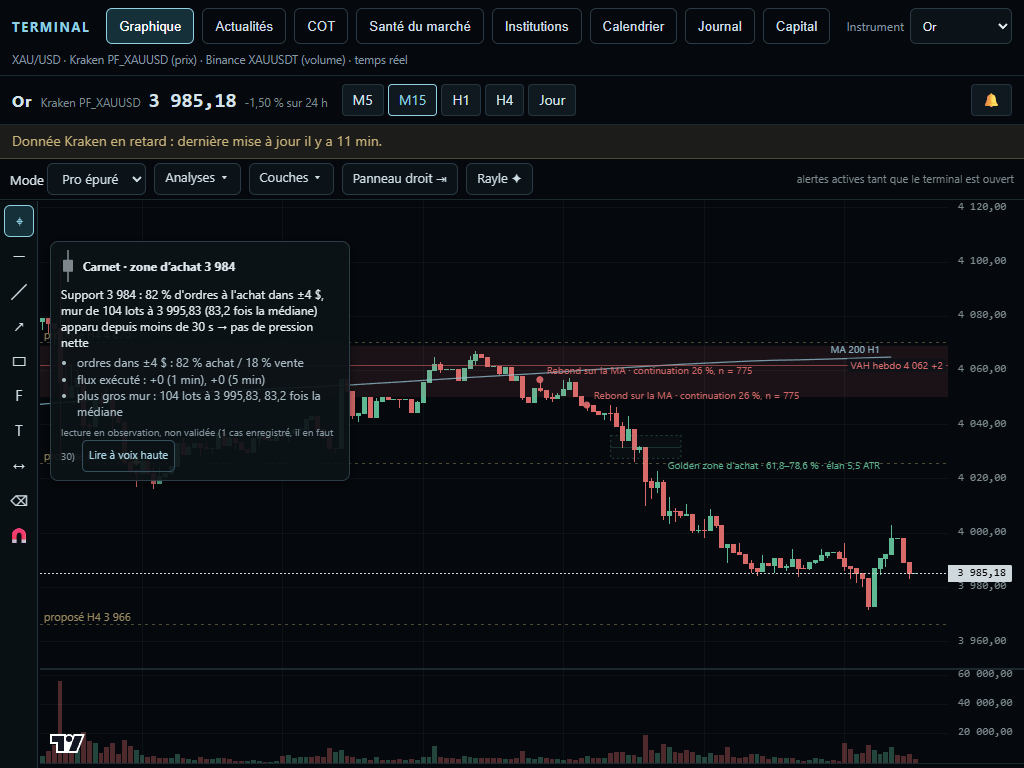
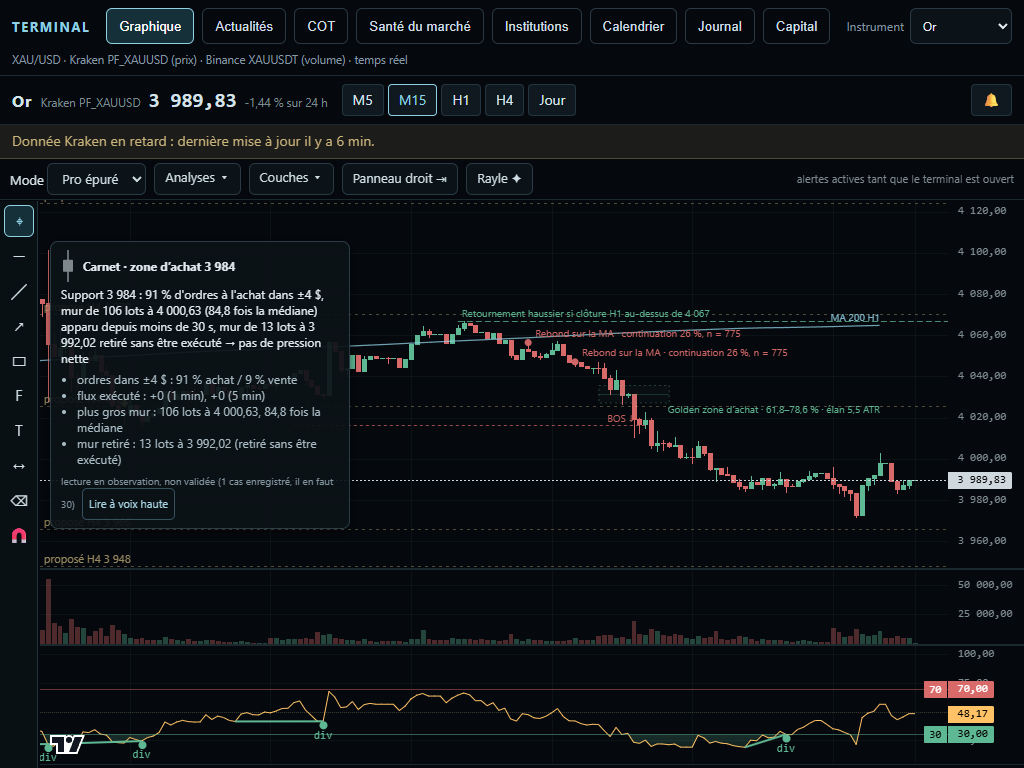
Terminal etape 2 : RSI 14 (Wilder) unique sous le prix, divergences confirmees, case Couches memorisee, tests Node et Chrome 1600/1024/390

diff --git a/agent-trading/front/or/graphique-or.js b/agent-trading/front/or/graphique-or.js
@@ -19,8 +19,8 @@ import { COUCHES_RAYLE, COUCHES_RAYLE_DEFAUT } from './rayle-couches.js';
 import { zonesAffichage, liquiditeAffichage, dedoublonnerLiquidite, atrH1, detailZone } from './zones-affichage-v1.js';
 import { dessinerZone, dessinerLiquidite } from './zones-affichage-dessin.js';
 
-export const COUCHES = Object.freeze({ sr: 'Supports et résistances', liquidite: 'Zones de liquidité', fleches: 'Flèches de lecture (MA200 et gros niveaux)', flechesTout: 'Toutes les flèches (debug : anciennes versions, niveaux mineurs, zones tracées)', volume: 'Zones de volume', mouvements: 'Mouvements H1', ...LIBELLES, structure: 'Structure de marché H1 / H4 (cassures, impulsions, retournements)', retournements: 'Retournements : toutes les zones (probabilité mesurée)', rsi: 'RSI H1 + divergences (panneau sous le graphique)', divCachees: 'Divergences cachées', schemas: 'Schémas de retournement (double sommet, tête et épaules, balayage, bougies)', ...COUCHES_ICT, ...COUCHES_RAYLE });
-const COUCHES_DEFAUT = Object.freeze({ sr: true, liquidite: true, fleches: true, flechesTout: false, volume: false, mouvements: true, structure: false, retournements: false, rsi: false, divCachees: false, schemas: false, ...Object.fromEntries(Object.keys(COUCHES_ICT).map(k => [k, false])), ...COUCHES_RAYLE_DEFAUT, ...Object.fromEntries(Object.keys(LIBELLES).map(k => [k, false])) });
+export const COUCHES = Object.freeze({ sr: 'Supports et résistances', liquidite: 'Zones de liquidité', fleches: 'Flèches de lecture (MA200 et gros niveaux)', flechesTout: 'Toutes les flèches (debug : anciennes versions, niveaux mineurs, zones tracées)', volume: 'Zones de volume', mouvements: 'Mouvements H1', ...LIBELLES, structure: 'Structure de marché H1 / H4 (cassures, impulsions, retournements)', retournements: 'Retournements : toutes les zones (probabilité mesurée)', rsi: 'RSI 14 (sous-fenêtre) + divergences', divCachees: 'Divergences cachées', schemas: 'Schémas de retournement (double sommet, tête et épaules, balayage, bougies)', ...COUCHES_ICT, ...COUCHES_RAYLE });
+const COUCHES_DEFAUT = Object.freeze({ sr: true, liquidite: true, fleches: true, flechesTout: false, volume: false, mouvements: true, structure: false, retournements: false, rsi: true, divCachees: false, schemas: false, ...Object.fromEntries(Object.keys(COUCHES_ICT).map(k => [k, false])), ...COUCHES_RAYLE_DEFAUT, ...Object.fromEntries(Object.keys(LIBELLES).map(k => [k, false])) });
 const lire = (k, d) => { try { const v = localStorage.getItem(k); return v ? JSON.parse(v) : d; } catch (e) { return d; } };
 const ecrire = (k, v) => { try { localStorage.setItem(k, JSON.stringify(v)); } catch (e) { /* stockage refusé */ } };
 const nb = (p, d = 2) => Number(p).toLocaleString('fr-FR', { minimumFractionDigits: d, maximumFractionDigits: d }).replace(/ | /g, ' ');
@@ -41,9 +41,9 @@ export function ratio(pos) {
 }
 
 export function creerGraphiqueOr(el, { surClicPrix, mobile = false } = {}) {
-  const etat = { bougies: [], volumes: [], cle: null, debutKraken: null, ecart: null, chargementAncien: false, zonesVol: [], h1: [], aff: null, cadresZ: [], niveaux: [], retournement: [], bandes: [], liquidite: [], balayages: [], fleches: [], segments: [], segCadres: [], a: null, cadres: [], marques: [], tSerie: new Map(), barres: new Map(), couches: { ...COUCHES_DEFAUT, ...lire('rayle_or_couches_v2', {}) }, pos: lire('rayle_or_position', null), outil: null, prix: null,
+  const etat = { bougies: [], volumes: [], cle: null, debutKraken: null, ecart: null, chargementAncien: false, zonesVol: [], h1: [], aff: null, cadresZ: [], niveaux: [], retournement: [], bandes: [], liquidite: [], balayages: [], fleches: [], segments: [], segCadres: [], a: null, cadres: [], marques: [], tSerie: new Map(), barres: new Map(), couches: (() => { const c = { ...COUCHES_DEFAUT, ...lire('rayle_or_couches_v2', {}) }; if (!lire('rayle_or_rsi_defaut_v1', false)) { c.rsi = true; c.fleches = true; ecrire('rayle_or_rsi_defaut_v1', true); } return c; })(),   // une seule fois : RSI et flèches de lecture allumés par défaut, puis le choix est mémorisé pos: lire('rayle_or_position', null), outil: null, prix: null,
     flechesT: [], outils: { objets: [], proposes: [], croix: [], fleches10: [], selection: null }, modeOutil: null, brouillon: [], aimant: true, outilsCadres: [] };
-  let LW = null, chart = null, serie = null, vol = null, pret = null, maSerie = null, rsiSerie = null, rsiDiv = [];
+  let LW = null, chart = null, serie = null, vol = null, pret = null, maSerie = null, rsiSerie = null, rsiHaut = null, rsiBas = null, rsiDiv = [];
   /* couche « Mouvements H1 » (mouvements-v1.js, définition figée) : rétrospectif, jamais un signal ; H1 seulement ; données calculées dans un Worker (mouvements-ui.js) */
   const mouv = { liste: [], h1: false, cadres: [] };
   const mouvementSous = (x, y) => {   // clic seulement (pas au survol) et jamais pendant un outil de dessin
@@ -428,20 +428,38 @@ export function creerGraphiqueOr(el, { surClicPrix, mobile = false } = {}) {
     ictEtat: () => ({ cadres: (inst.cadresIct || []).length, types: (inst.cadresIct || []).reduce((o, c) => (o[c.kind] = (o[c.kind] || 0) + 1, o), {}) }),
     schemasEtat: () => ({ cadres: (inst.cadresSch || []).length, types: (inst.cadresSch || []).reduce((o, c) => (o[c.kind] = (o[c.kind] || 0) + 1, o), {}) }),
     /* panneau RSI sous le graphique (3e panneau) : points [{ t, v }] ou null pour le retirer ; divs : segments de divergence sur le RSI */
+    /* RSI 14 (Wilder) : UNE seule sous-fenêtre sous le prix (volet 2), jamais deux. Ligne dorée, 70 / 30 discrets, 50 en pointillé très léger, remplissage léger au-dessus de 70 et sous 30.
+       divs : [{ t1, t2, r1, r2, dir, label, confirmeT }] → petit trait entre les deux pivots + étiquette « div » (posée seulement une fois le second pivot confirmé : jamais de repaint). */
     async rsi(points, divs = []) {
       await pret; if (!chart || !LW) return;
-      const retirer = () => { for (const q of rsiDiv) { try { chart.removeSeries(q); } catch (e) { /* */ } } rsiDiv = []; if (rsiSerie) { try { chart.removeSeries(rsiSerie); } catch (e) { /* */ } rsiSerie = null; } };
+      const retirer = () => { for (const q of rsiDiv) { try { chart.removeSeries(q); } catch (e) { /* */ } } rsiDiv = []; for (const q of [rsiSerie, rsiHaut, rsiBas]) if (q) { try { chart.removeSeries(q); } catch (e) { /* */ } } rsiSerie = rsiHaut = rsiBas = null; };
       if (!points || !points.length) { retirer(); return false; }
       if (!rsiSerie) {
-        rsiSerie = chart.addSeries(LW.LineSeries, { color: '#c9b27a', lineWidth: 1, priceLineVisible: false, lastValueVisible: true, crosshairMarkerVisible: false, priceFormat: { type: 'custom', formatter: v => Number(v).toFixed(0), minMove: 1 }, autoscaleInfoProvider: () => ({ priceRange: { minValue: 10, maxValue: 90 } }) }, 2);
-        rsiSerie.createPriceLine({ price: 70, color: 'rgba(216,106,106,.55)', lineWidth: 1, lineStyle: 2, axisLabelVisible: true, title: '70' }); rsiSerie.createPriceLine({ price: 30, color: 'rgba(95,184,148,.55)', lineWidth: 1, lineStyle: 2, axisLabelVisible: true, title: '30' });
+        const commun = { priceLineVisible: false, lastValueVisible: false, crosshairMarkerVisible: false, autoscaleInfoProvider: () => ({ priceRange: { minValue: 5, maxValue: 95 } }) };
+        const transp = 'rgba(0,0,0,0)';
+        rsiHaut = chart.addSeries(LW.BaselineSeries, { ...commun, baseValue: { type: 'price', price: 70 }, topFillColor1: 'rgba(216,106,106,.22)', topFillColor2: 'rgba(216,106,106,.05)', bottomFillColor1: transp, bottomFillColor2: transp, topLineColor: transp, bottomLineColor: transp, lineWidth: 1 }, 2);
+        rsiBas = chart.addSeries(LW.BaselineSeries, { ...commun, baseValue: { type: 'price', price: 30 }, bottomFillColor1: 'rgba(95,184,148,.22)', bottomFillColor2: 'rgba(95,184,148,.05)', topFillColor1: transp, topFillColor2: transp, topLineColor: transp, bottomLineColor: transp, lineWidth: 1 }, 2);
+        rsiSerie = chart.addSeries(LW.LineSeries, { ...commun, color: '#ffc266', lineWidth: 1, lastValueVisible: true, priceFormat: { type: 'custom', formatter: v => Number(v).toFixed(0), minMove: 1 } }, 2);
+        rsiSerie.createPriceLine({ price: 70, color: 'rgba(216,106,106,.45)', lineWidth: 1, lineStyle: 0, axisLabelVisible: true, title: '70' });
+        rsiSerie.createPriceLine({ price: 30, color: 'rgba(95,184,148,.45)', lineWidth: 1, lineStyle: 0, axisLabelVisible: true, title: '30' });
+        rsiSerie.createPriceLine({ price: 50, color: 'rgba(255,224,138,.16)', lineWidth: 1, lineStyle: 1, axisLabelVisible: false, title: '' });
         try { const P = chart.panes(); P[0].setStretchFactor(mobile ? 4 : 5); P[1].setStretchFactor(1); if (P[2]) P[2].setStretchFactor(mobile ? 1.4 : 1.6); } catch (e) { /* */ }
       }
-      const m = new Map(); for (const q of points) { const tt = tDe(q.t); if (tt != null && Number.isFinite(q.v)) m.set(tt, q.v); } rsiSerie.setData([...m.entries()].sort((a, b) => a[0] - b[0]).map(([time, value]) => ({ time, value })));
+      const m = new Map(); for (const q of points) { const tt = tDe(q.t); if (tt != null && Number.isFinite(q.v)) m.set(tt, q.v); }
+      const data = [...m.entries()].sort((a, b) => a[0] - b[0]).map(([time, value]) => ({ time, value }));
+      rsiSerie.setData(data); rsiHaut.setData(data); rsiBas.setData(data);
       for (const q of rsiDiv) { try { chart.removeSeries(q); } catch (e) { /* */ } } rsiDiv = [];
-      for (const d of divs.slice(-8)) { const t1 = tDe(d.t1), t2 = tDe(d.t2); if (t1 == null || t2 == null || t1 >= t2) continue; const q = chart.addSeries(LW.LineSeries, { color: d.dir > 0 ? '#5fb894' : '#d86a6a', lineWidth: 1, lineStyle: d.cachee ? 2 : 0, priceLineVisible: false, lastValueVisible: false, crosshairMarkerVisible: false, autoscaleInfoProvider: () => null }, 2); q.setData([{ time: t1, value: d.r1 }, { time: t2, value: d.r2 }]); rsiDiv.push(q); }
+      for (const d of divs.slice(-8)) {
+        const t1 = tDe(d.t1), t2 = tDe(d.t2); if (t1 == null || t2 == null || t1 >= t2) continue;
+        const couleur = d.dir > 0 ? '#5fb894' : '#d86a6a';
+        const q = chart.addSeries(LW.LineSeries, { color: couleur, lineWidth: 2, lineStyle: d.cachee ? 2 : 0, priceLineVisible: false, lastValueVisible: false, crosshairMarkerVisible: false, autoscaleInfoProvider: () => null }, 2);
+        q.setData([{ time: t1, value: d.r1 }, { time: t2, value: d.r2 }]);
+        if (LW.createSeriesMarkers) { try { LW.createSeriesMarkers(q, [{ time: t2, position: d.dir > 0 ? 'belowBar' : 'aboveBar', color: couleur, shape: 'circle', size: 0.2, text: d.label || 'div' }]); } catch (e) { /* marques indisponibles */ } }
+        rsiDiv.push(q);
+      }
       return true;
     },
+    rsiEtat: () => { let panneaux = 0, lignes = 0; try { panneaux = chart ? chart.panes().length : 0; } catch (e) { /* */ } lignes = rsiSerie ? 1 : 0; return { actif: !!rsiSerie, lignes, panneaux, divergences: rsiDiv.length, remplissages: (rsiHaut ? 1 : 0) + (rsiBas ? 1 : 0) }; },
     structureEtat: () => ({ cadres: (inst.cadresS || []).length, types: (inst.cadresS || []).reduce((o, c) => (o[c.kind] = (o[c.kind] || 0) + 1, o), {}) }),
     mouvements(liste, { h1 = false } = {}) { mouv.liste = liste || []; mouv.h1 = !!h1; redessiner(); return mouv.liste.length; },
     mouvementsEtat: () => ({ h1: mouv.h1, actif: mouv.h1 && etat.couches.mouvements !== false, total: mouv.liste.length, dessines: mouv.cadres.length, cadres: mouv.cadres.map(c => ({ x0: c.x0, x1: c.x1, y0: c.y0, y1: c.y1, sens: c.m.sens, bougies: c.m.bougies, enCours: !!c.m.enCours, t0: c.m.t0 })) }),

diff --git a/agent-trading/front/or/rsi-lecture-v1.js b/agent-trading/front/or/rsi-lecture-v1.js
@@ -1,0 +1,57 @@
+/* ═════════════ RSI 14 (Wilder) ET DIVERGENCES — règle « rsi-lecture-v1 » (2026-11-12) ═════════════
+   Pur, sans DOM, sans réseau. Un SEUL RSI : période 14, lissage de Wilder, calculé sur les clôtures de la timeframe affichée.
+   Divergences : seulement entre DEUX PIVOTS CONSÉCUTIFS DE MÊME NATURE du prix, chacun confirmé par 5 bougies de chaque côté (le pivot est connu 5 bougies après),
+   distants d'au plus 60 bougies :
+     • haussière : deuxième creux du prix PLUS BAS que le premier, RSI du deuxième creux PLUS HAUT ;
+     • baissière : deuxième sommet du prix PLUS HAUT que le premier, RSI du deuxième sommet PLUS BAS.
+   La divergence n'apparaît qu'à la CONFIRMATION du second pivot (5 bougies après lui) : elle arrive donc avec du retard et n'est JAMAIS redessinée.
+   Repère de lecture, ni un signal d'entrée ni un ordre. */
+export const VERSION = 'rsi-lecture-v1', ECRITES_LE = '2026-11-12';
+export const P = Object.freeze({ periode: 14, pivot: 5, distanceMax: 60, haut: 70, bas: 30, milieu: 50 });
+
+/* RSI de Wilder : moyenne simple des 14 premières variations, puis lissage (a·13 + x) / 14. null avant la 15e clôture. */
+export function rsiWilder(closes, n = P.periode) {
+  const out = new Array(closes.length).fill(null); if (closes.length <= n) return out;
+  let gain = 0, perte = 0;
+  for (let i = 1; i <= n; i++) { const d = closes[i] - closes[i - 1]; if (d >= 0) gain += d; else perte -= d; }
+  gain /= n; perte /= n; out[n] = perte === 0 ? (gain === 0 ? 50 : 100) : 100 - 100 / (1 + gain / perte);
+  for (let i = n + 1; i < closes.length; i++) {
+    const d = closes[i] - closes[i - 1]; gain = (gain * (n - 1) + (d > 0 ? d : 0)) / n; perte = (perte * (n - 1) + (d < 0 ? -d : 0)) / n;
+    out[i] = perte === 0 ? (gain === 0 ? 50 : 100) : 100 - 100 / (1 + gain / perte);
+  }
+  return out;
+}
+
+/* Pivots du prix (mèches) confirmés : le pivot i est le plus haut (ou plus bas) STRICT de i-k..i+k ; connu à la clôture de la bougie i+k. */
+export function pivots(B, k = P.pivot) {
+  const sommets = [], creux = [];
+  for (let i = k; i < B.length - k; i++) {
+    let h = true, b = true;
+    for (let j = i - k; j <= i + k; j++) { if (j === i) continue; if (B[j].h >= B[i].h) h = false; if (B[j].l <= B[i].l) b = false; if (!h && !b) break; }
+    if (h) sommets.push({ i, p: B[i].h, t: B[i].t, connuI: i + k }); if (b) creux.push({ i, p: B[i].l, t: B[i].t, connuI: i + k });
+  }
+  return { sommets, creux };
+}
+
+/* Divergences entre pivots consécutifs de même nature. B : bougies { t, h, l, c } ; R : RSI aligné sur B. */
+export function divergences(B, R, { k = P.pivot, max = P.distanceMax } = {}) {
+  const { sommets, creux } = pivots(B, k), out = [];
+  const examiner = (L, dir) => {
+    for (let a = 1; a < L.length; a++) {
+      const p1 = L[a - 1], p2 = L[a]; if (p2.i - p1.i > max || p1.i === p2.i) continue;
+      const r1 = R[p1.i], r2 = R[p2.i]; if (r1 == null || r2 == null) continue;
+      const bull = dir > 0 ? (p2.p < p1.p && r2 > r1) : (p2.p > p1.p && r2 < r1);
+      if (bull) out.push({ dir, i1: p1.i, i2: p2.i, t1: p1.t, t2: p2.t, p1: p1.p, p2: p2.p, r1, r2, confirmeI: p2.connuI, confirmeT: B[p2.connuI].t + (B[1] ? B[1].t - B[0].t : 0), label: 'div', nom: dir > 0 ? 'Divergence haussière' : 'Divergence baissière' });
+    }
+  };
+  examiner(creux, 1); examiner(sommets, -1);
+  return out.sort((x, y) => x.confirmeI - y.confirmeI);
+}
+
+export const texteDivergence = d => `${d.nom} : le prix ${d.dir > 0 ? 'fait un creux plus bas' : 'fait un sommet plus haut'} (${d.p1.toFixed(2).replace('.', ',')} → ${d.p2.toFixed(2).replace('.', ',')}) pendant que le RSI ${d.dir > 0 ? 'monte' : 'baisse'} (${Math.round(d.r1)} → ${Math.round(d.r2)}). Confirmée ${P.pivot} bougies après le second pivot : elle apparaît avec ce retard et n'est jamais redessinée. Repère de lecture, pas un ordre.`;
+
+/* Tout en un : bougies affichées (la dernière peut être en cours : elle sert au RSI mais jamais à un pivot confirmé, faute de 5 bougies après). */
+export function analyser(B) {
+  const R = rsiWilder(B.map(b => b.c));
+  return { rsi: R, divergences: divergences(B, R), dernier: R.length ? R[R.length - 1] : null };
+}

diff --git a/agent-trading/front/or/rsi-ui.js b/agent-trading/front/or/rsi-ui.js
@@ -1,0 +1,45 @@
+/* ═════════════ RSI 14 SOUS LE PRIX : interface (case dans Couches, mise à jour à chaque changement, infobulle des divergences) ═════════════
+   Calcul : rsi-lecture-v1.js. Dessin : graph.rsi() (une seule sous-fenêtre). Un SEUL RSI à l'écran : il suit la timeframe affichée du graphique.
+   Case « RSI » dans Couches, activée par défaut, état mémorisé (couche « rsi » du graphique). Information de lecture, jamais un ordre. */
+import * as R from './rsi-lecture-v1.js';
+
+const esc = s => String(s ?? '').replace(/[&<>"']/g, c => ({ '&': '&amp;', '<': '&lt;', '>': '&gt;', '"': '&quot;', "'": '&#39;' }[c]));
+
+export function monterRsi(T, { intervalleMs = 700 } = {}) {
+  const graph = T.graph, E = { cle: '', analyse: null, bougies: 0, dessine: false, divs: [] };
+  const zone = T.R && T.R.querySelector('[data-graph]');
+  const bulle = document.createElement('div'); bulle.className = 'tor-ft-bulle'; bulle.hidden = true; bulle.setAttribute('role', 'tooltip');
+  if (zone) { zone.style.position = zone.style.position || 'relative'; zone.appendChild(bulle); }
+  const periode = () => { try { return (T.moteur && T.moteur.S && T.moteur.S.periode) || (T.etat && T.etat().periode) || ''; } catch (e) { return ''; } };
+
+  function maj(force = false) {
+    const actif = graph.couches().rsi !== false, B = (graph.etat().bougies || []).filter(b => b && Number.isFinite(b.c));
+    const dernier = B.length ? B[B.length - 1] : null, cle = [actif, periode(), B.length, dernier && dernier.t, dernier && dernier.c].join('|');
+    if (!force && cle === E.cle) return false; E.cle = cle;
+    if (!actif || B.length < R.P.periode + 2) { if (E.dessine) { graph.rsi(null); E.dessine = false; } E.analyse = null; E.divs = []; return true; }
+    const a = R.analyser(B); E.analyse = a; E.bougies = B.length;
+    const pts = []; a.rsi.forEach((v, i) => { if (v != null) pts.push({ t: B[i].t, v }); });
+    E.divs = a.divergences.filter(d => d.i2 >= B.length - 400);
+    graph.rsi(pts.slice(-1500), E.divs); E.dessine = true; return true;
+  }
+
+  let abonne = false;
+  function abonner() {
+    if (abonne) return; const ch = graph.chart && graph.chart(); if (!ch) return; abonne = true;
+    ch.subscribeCrosshairMove(p => {
+      if (!p || !p.point || p.time == null || !E.divs.length || (p.paneIndex != null && p.paneIndex !== 2)) { bulle.hidden = true; return; }
+      const d = E.divs.find(x => { const t1 = graph.tempsDeBougie ? graph.tempsDeBougie(x.t1) : null, t2 = graph.tempsDeBougie ? graph.tempsDeBougie(x.t2) : null; return t1 != null && t2 != null && p.time >= t1 && p.time <= t2; });
+      if (!d) { bulle.hidden = true; return; }
+      bulle.innerHTML = `<div class="tor-ft-f"><b>${esc(d.nom)}</b><span>${esc(R.texteDivergence(d))}</span></div>`; bulle.hidden = false;
+      const w = bulle.offsetWidth || 260; bulle.style.left = Math.max(4, Math.min(p.point.x + 12, (zone ? zone.clientWidth : 600) - w - 4)) + 'px'; bulle.style.top = Math.max(4, p.point.y - 70) + 'px';
+    });
+  }
+  const pompe = setInterval(() => { try { abonner(); maj(); } catch (e) { console.warn('RSI :', e.message); } }, intervalleMs);
+  const api = {
+    maj, analyse: () => E.analyse,
+    etat: () => ({ actif: graph.couches().rsi !== false, dessine: E.dessine, periode: periode(), bougies: E.bougies, dernier: E.analyse ? E.analyse.dernier : null, divergences: E.divs.length, graphe: graph.rsiEtat ? graph.rsiEtat() : null }),
+    detruire() { clearInterval(pompe); }
+  };
+  setTimeout(() => { try { maj(true); } catch (e) { /* */ } }, 300);
+  return api;
+}

diff --git a/agent-trading/front/or/terminal-pro.js b/agent-trading/front/or/terminal-pro.js
@@ -51,7 +51,7 @@ export function creerTerminalPro({ racine, graph, strategie, parler = () => {}, 
   lw.addEventListener('pointerup', ev => { if (!bas || !['fib', 'texte', 'mesure', 'gomme'].includes(E.outil)) { bas = null; return; } const d = Math.hypot(ev.clientX - bas.x, ev.clientY - bas.y); bas = null; if (d > 5) return; const r = lw.getBoundingClientRect(); surClic({ point: { x: ev.clientX - r.left, y: ev.clientY - r.top } }); }, true);
   /* ── modes ── */
   function appliquerMode(k, { memoriser = true } = {}) {
-    const M = MODES[k]; if (!M) return; E.mode = k; const tout = Object.keys(graph.couches()), cibles = new Set([...M.couches, 'fleches']), etat = {}; for (const c of tout) etat[c] = cibles.has(c); graph.couches(etat);
+    const M = MODES[k]; if (!M) return; E.mode = k; const tout = Object.keys(graph.couches()), cibles = new Set(M.couches), courant = graph.couches(), etat = {}; for (const c of tout) etat[c] = (c === 'fleches' || c === 'rsi') ? courant[c] !== false : cibles.has(c);   // flèches de lecture et RSI : ne dépendent pas du mode, le choix de l'utilisateur est gardé graph.couches(etat);
     for (const c of racine.querySelectorAll('[data-couche]')) c.checked = !!etat[c.dataset.couche];
     for (const cle of ['vwap', 'structure', 'rsi', 'ictLiquidite', 'rayMa']) { const c = racine.querySelector(`[data-couche="${cle}"]`); if (c) c.dispatchEvent(new Event('change', { bubbles: true })); }
     droite(M.panneau); haut.querySelector('[data-tp-mode]').value = k; if (memoriser) ecrire(CLE_MODE, k); try { strategie.maj(true); } catch (e) { /* */ }

diff --git a/agent-trading/front/or/tableau-or.js b/agent-trading/front/or/tableau-or.js
@@ -299,6 +299,7 @@ export function monterTableauOr(el, { modules = {}, contexte = 'page', fetchFn, 
   mouvUI = creerMouvementsUI({ racine: R, graph, moteur }); api.mouvements = mouvUI; api.graphe = () => graph;
   api.monterModule = (nom, m) => { modules[nom] = m; }; api.rendre = () => rendre();
   // mes outils (dessin, surveillance, alertes, registre) : dans tous les contextes ; un échec n'empêche pas le reste
+  import('./rsi-ui.js').then(m => { api.rsiUI = m.monterRsi(api); }).catch(e => notifier('RSI indisponible : ' + e.message, { niveau: 'doux', dit: false, raison: 'module' }));
   import('./fleches-terminal-ui.js').then(m => { api.flechesT = m.monterFlechesTerminal(api, {}); }).catch(e => notifier('Flèches du Terminal indisponibles : ' + e.message, { niveau: 'doux', dit: false, raison: 'module' }));
   import('./terminal-outils.js').then(m => { if (!R.isConnected && el.innerHTML === '') return; modules.outils = m.monterOutils(api, { ...(fetchFn ? { fetchFn } : {}), ...(window.__RAYLE_OR_OUTILS_TEST__ || {}) /* crochet de test : horloge et bougies H1 rejouées */ }); api.outils = modules.outils; }).catch(e => notifier('Outils de dessin indisponibles : ' + e.message, { niveau: 'doux', dit: false, raison: 'module' }));
   moteur.demarrer().then(() => { notifier('Données de l’or chargées.', { niveau: 'doux', dit: false, raison: 'information interne' }); }).catch(e => notifier('Chargement impossible : ' + e.message, { niveau: 'fort' }));

diff --git a/agent-trading/front/or/schemas-or.js b/agent-trading/front/or/schemas-or.js
@@ -96,8 +96,7 @@ export function creerSchemas({ racine, moteur, graph, structure, parler = () => 
   /* ── panneau RSI sous le graphique ── */
   async function majRsi() {
     const c = couches(); if (!E.R) return;
-    if (c.rsi) { const B = E.B, pts = []; E.R.rsi.forEach((v, i) => { if (v != null) pts.push({ t: B[i].t, v }); }); const divs = E.R.divergences.filter(d => d.i >= B.length - 400 && (d.sous === 'reguliere' || c.divCachees) && (!E.reg.seulementZone || d.enZone)).map(d => ({ t1: d.t1, t2: d.t2, r1: d.r1, r2: d.r2, dir: d.dir, cachee: d.sous === 'cachee' })); await graph.rsi(pts.slice(-1200), divs); }
-    else await graph.rsi(null);
+    /* RSI : désormais un seul, sur la timeframe affichée, géré par rsi-ui.js (rsi-lecture-v1) */
   }
   function maj(force = false) {
     const change = analyser() || force; if (!E.R) { rendre(); return; }

diff --git a/PROGRESS.md b/PROGRESS.md
@@ -9,6 +9,10 @@ Règle : les flèches marquent des ÉVÉNEMENTS de lecture, pas des trades renta
 - Rapport avant/après : `agent-trading/recherche-or/RAPPORT-FLECHES-FILTRAGE.md` (régénérable : `node agent-trading/recherche-or/fleches-filtrage.mjs`). Avant, sur 2026 : 623 flèches du terminal v1 (+ 284 niveaux de période, 36 à 360 par version H1 affichée). Après : 84 affichées (7 cassures confirmées, 7 retests, 22 rebonds MA200, 0 précoce, 48 rebonds confirmés sur gros niveau), 59 masquées ; 0 grappe ; maximum 12 sur 600 bougies.
 - Tests : `fleches-lecture-test.mjs` (21 : sceau, grappes, plafond, aucun repaint, scénarios fabriqués) dans `npm test` ; Chrome `fleches-lecture-chrome.mjs` (PC 1600, tablette 1024, téléphone 390 : aucune grappe, ≤ 12 par 600 bougies, aucune flèche sans MA200 / gros niveau, case debug désactivée) : passe. `terminal-pro-chrome` : passe sauf « Fibonacci : deux clics = un tracé » à 390 px, qui échoue AUSSI sans mes changements (vérifié avec `git stash`). Phase D de `terminal-chrome-test` : échec antérieur (`terminal.html` redirige maintenant vers `or.html`, le test cherche l'URL de la page terminal) ; phase E : 1 échec « historique ancien » (non lié aux flèches) ; `or-fleches-h1-chrome-test` : pause de 1,7 s pendant le calcul des anciennes versions (hors de mon périmètre).
 
+## Étape 2 — RSI du terminal : FAITE
+- `agent-trading/front/or/rsi-lecture-v1.js` (scellé) : RSI 14 de Wilder, pivots confirmés par 5 bougies de chaque côté, divergences entre deux pivots consécutifs de même nature (distance ≤ 60 bougies), posées seulement à la confirmation du second pivot (donc avec 5 bougies de retard, jamais redessinées ; dit dans l'infobulle). `rsi-ui.js` : UN seul RSI, sur la timeframe affichée (suit M5 / M15 / H1 / H4 / Jour), couche « RSI » dans Couches, activée par défaut (une migration l'allume une fois, puis le choix est mémorisé). `graph.rsi()` : ligne dorée, 70 / 30 discrets, 50 en pointillé très léger, remplissage léger au-dessus de 70 et sous 30, trait entre les pivots + étiquette « div ». L'ancien RSI H1 du module des schémas est retiré (un seul RSI possible). Le mode (Pro / ICT / Flux) ne touche plus ni le RSI ni les flèches de lecture.
+- Tests : `rsi-lecture-test.mjs` (29 : égalité avec un calcul de référence sur 500 bougies à 1e-9, pivots, divergences, aucun repaint, sceau) dans `npm test` ; Chrome `rsi-chrome.mjs` (1600, 1024, 390 px, vraies données Kraken : une seule ligne et au plus 3 volets, suit la timeframe, valeur = référence de Wilder sur les bougies affichées, case mémorisée après rechargement) : passe. Captures : `outils-restructuration/captures/rsi-*.png`.
+
 # Design doré + carrousel 3D + actualité en local (2026-11-11, branche `restructuration-rayle`) — avancement
 
 **Fait, rien poussé ni déployé.** Captures : `outils-restructuration/captures-design/` (avant : `avant-ambre.png` = tag, thème Aurore « Doré » ; après : `car-*.png` PC 1600, `apres-tab1024-*.png`, `apres-tel390-*.png`, `grow-mi-transition.png`).
